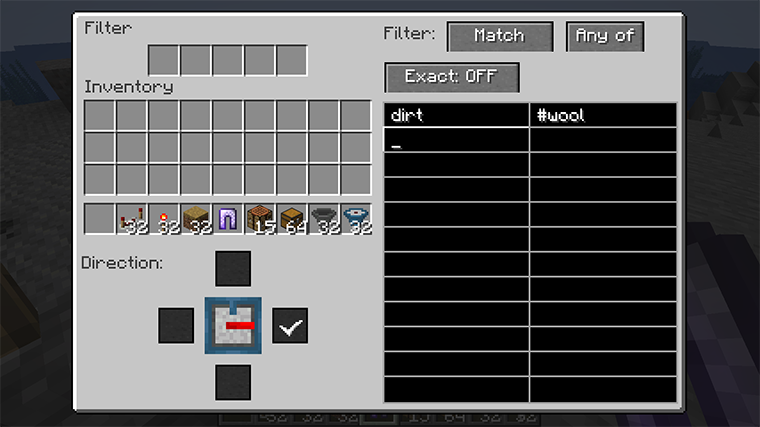
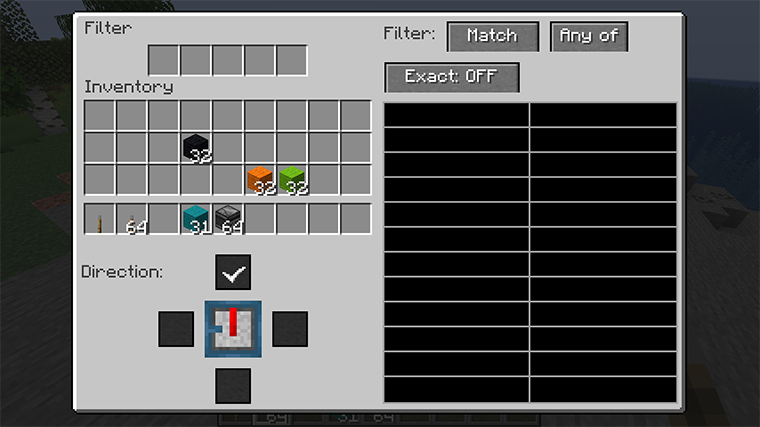
update screenshots

diff --git a/site/index.html b/site/index.html
@@ -69,7 +69,7 @@
 
         <p>
             You can set up the filter using its UI:
-            <img src="only_same_mode.png" alt="filter UI in 'Only Same' mode">
+            <img src="same_as.png" alt="filter UI in 'Only Same' mode">
 
         <p>
             The area in the upper left is the basic hopper UI, and works just the same. On the right is
@@ -178,7 +178,7 @@
     <br>© 2022-2023 by Ken Arnold. Based on a work at <a
         href="https://github.com/kcrca/philter" rel="dct:source">https://github.com/kcrca/philter</a>.
         <!--CopyrightEnd-->
-    <p class="timestamp">Page Last Edited: Mar  4 15:32:47 2023
+    <p class="timestamp">Page Last Edited: Mar  4 15:53:18 2023
 
 </div>
 
